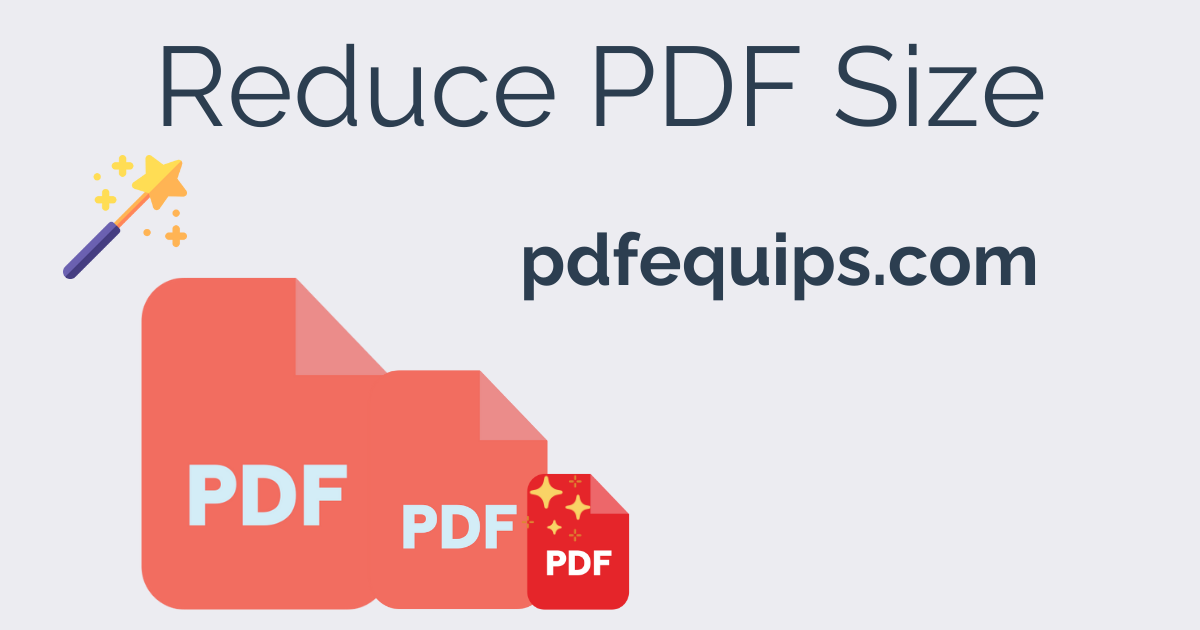
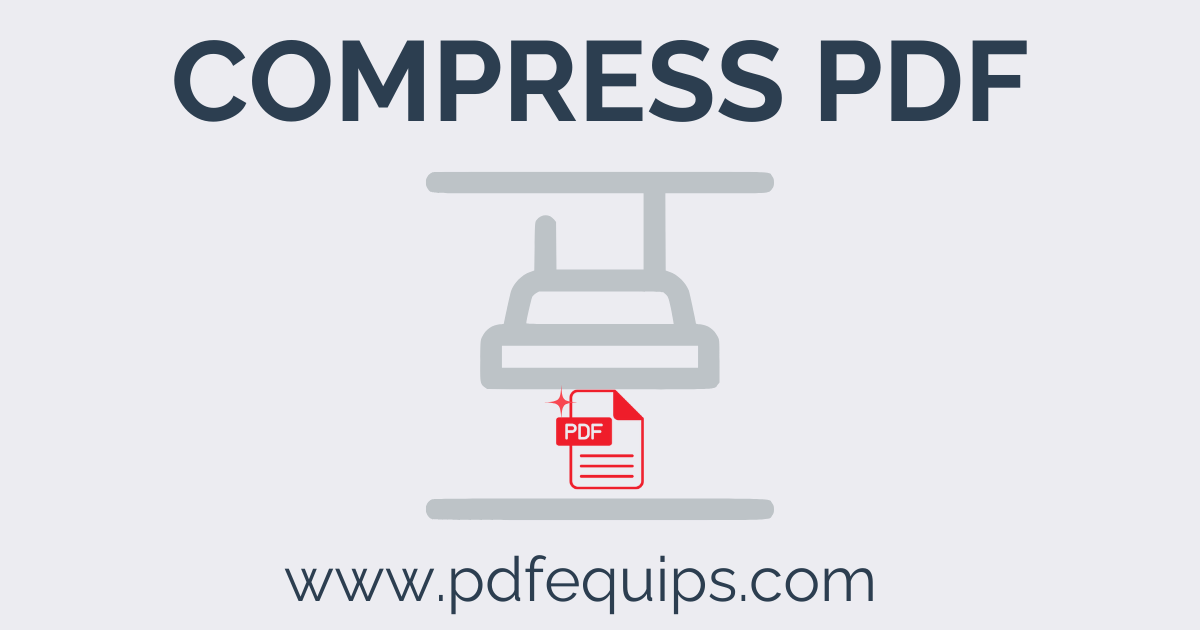
added compress pdf

Changed region(s): [[0.0925, 0.2714, 0.8633, 0.9952], [0.1233, 0.0603, 0.8942, 0.2111], [0.0308, 0.2413, 0.1542, 0.4524]]

diff --git a/unzip_and_move.py b/unzip_and_move.py
@@ -66,5 +66,5 @@ def move_png_files(zip_folder_name):
             print(f"Error: Failed to extract {zip_folder_name}")
 
 # Example usage:
-zip_folder_name = "split-pdf.zip"
+zip_folder_name = "compress-pdf.zip"
 move_png_files(zip_folder_name)
